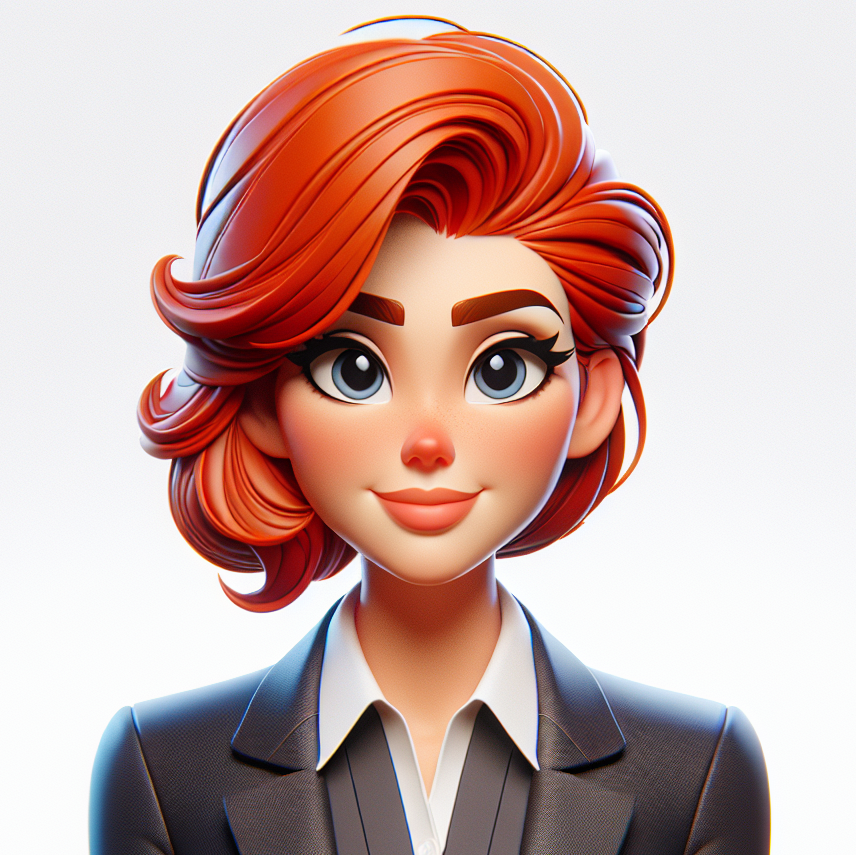
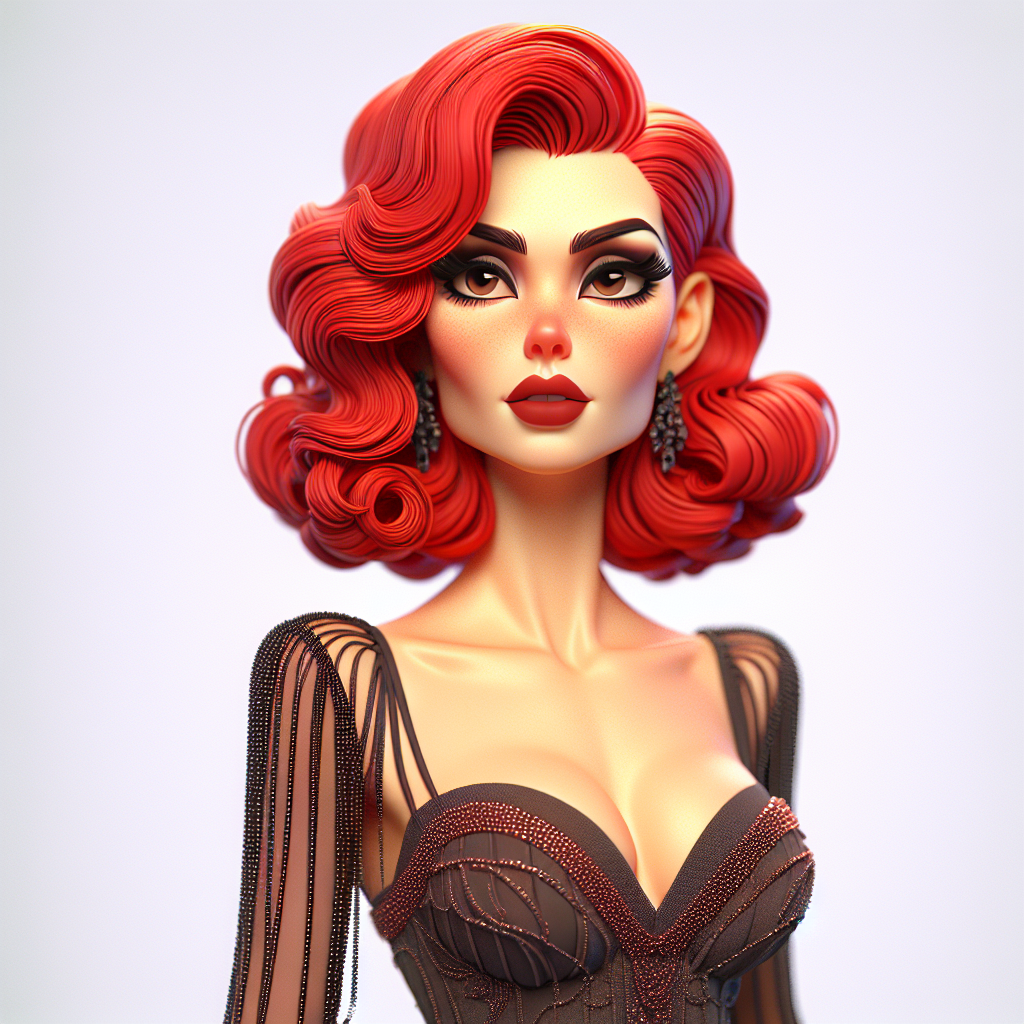
update some characters

diff --git a/src/app/game/[gameId]/page.tsx b/src/app/game/[gameId]/page.tsx
@@ -9,7 +9,7 @@ import { Socket } from 'socket.io-client';
 import { useRouter } from 'next/navigation';
 import QuestionModal from "@/components/QuestionModal";
 import AnswerModal from "@/components/AnswerModal";
-import { ArrowLeftIcon, MoonIcon, SunIcon } from '@chakra-ui/icons';
+import { ArrowLeftIcon, MoonIcon, StarIcon, SunIcon } from '@chakra-ui/icons';
 import Dialogue from '@/components/Dialogue';
 import GuessCharacterModal from '@/components/GuessCharacterModal';
 import WinnerModal from '@/components/WinnerModal';
@@ -199,7 +199,7 @@ export default function Game() {
           <Flex direction="row" justify="flex-start" align="stretch" h="90vh" w="96vw" pr={0}>
 
             <IconButton onClick={toggleColorMode} icon={colorMode === 'light' ? <MoonIcon /> : <SunIcon />} aria-label={'dark-mode-toggle'} isRound={true} variant='solid' position="fixed" top='1em' right='1em' />
-            {/* <IconButton onClick={generateImages} icon={<StarIcon />} aria-label={'generate-ai-images'} isRound={true} variant='solid' position="fixed" top='1em' right='4em' /> */}
+            <IconButton onClick={generateImages} icon={<StarIcon />} aria-label={'generate-ai-images'} isRound={true} variant='solid' position="fixed" top='1em' right='4em' />
 
             < Box flexGrow={0} mr={2} >
               <Board board={board} handleClickCharacter={handleClickCharacter} columns={COLUMNS} />

diff --git a/src/pages/api/images.ts b/src/pages/api/images.ts
@@ -9,11 +9,11 @@ const imageSpec = `Generate a 3D, Pixar-style cartoonish character.
 The character should be drawn from the shoulders up, similar to a portrait or avatar and be the central figure on a white background.`;
 
 const prompts = [
-  "Create a character of a young Asian woman with a cheerful expression and sporty attire.",
-  "Create a character of a tall elderly Hispanic man with a thoughtful expression and casual attire.",
-  "Create a character of a middle-aged redhead woman with a confident look and business attire.",
-  "Create a character of a young Middle Eastern man with a friendly expression and traditional attire.",
-  "Create a character of a petite elderly Asian woman with a wise expression and elegant attire.",
+  "Create a character of a young Aboriginal boy with a happy expression and traditional attire.",
+  "Create a character of a bougie, high-society white woman with a snooty expression and a designer outfit.",
+  "Create a character of an intellectual, elegant middle aged white woman with a sophisticated expression and a chic outfit.",
+  "Create a character of a gorgeous red-haired white woman with a sultry expression and a glamorous outfit.",
+  "Create a character of a sweet elderly Mexican woman with a warm expression and traditional attire.",
 ];
 
 export default async function handler(

diff --git a/src/components/Board.tsx b/src/components/Board.tsx
@@ -1,7 +1,7 @@
 import Character from "@/character";
 import styles from '../styles.module.css'
 import Image from 'next/image'
-import { Card, Text, Grid, GridItem, CardBody, CardFooter, Box, useColorMode } from "@chakra-ui/react";
+import { Card, Heading, Grid, GridItem, CardBody, CardFooter, Box, useColorMode } from "@chakra-ui/react";
 
 export default function Board({ board, handleClickCharacter, columns }: { board: Character[], handleClickCharacter: (index: number) => void, columns: number }) {
   const { colorMode } = useColorMode();
@@ -18,7 +18,7 @@ export default function Board({ board, handleClickCharacter, columns }: { board:
                 </Box>
               </CardBody>
               <CardFooter display="flex" alignItems="center" justifyContent="center">
-                <Text>{c.name}</Text>
+                <Heading size="md">{c.name}</Heading>
               </CardFooter>
             </Card>
           </Box>
